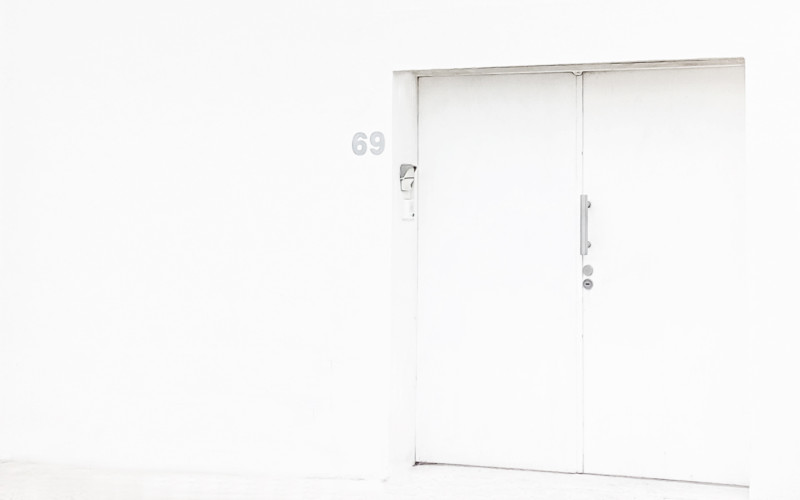
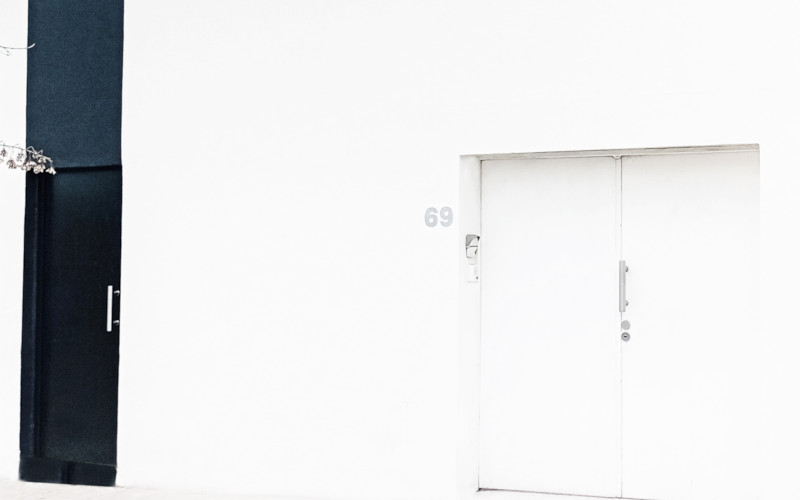
Radio, sede

diff --git a/docs/perm/radio/index.html b/docs/perm/radio/index.html
@@ -16,6 +16,21 @@
             <h1><img class="d-block fx-invert fx-ampliar" src="/rec/grafica/logo-posverso.svg" height="20px" title="POSVERSO"> Radio</h1>
         </header>
 
+        <section class="player">
+            <button id="btn-play" class="btn-play">Escuchar</button>
+            <div class="player-controls hidden" id="player-controls">
+                <button id="btn-toggle" class="btn-toggle" aria-label="Pausa"></button>
+                <div class="volume-wrap">
+                    <span class="vol-icon" id="vol-icon"></span>
+                    <input type="range" id="vol-slider" min="0" max="100" value="80" class="vol-slider">
+                </div>
+                <span class="time-display" id="time-display">00:00:00</span>
+            </div>
+            <audio id="radio" preload="none">
+                <source src="https://giss.tv:667/posversoradio.ogg" type="audio/ogg">
+            </audio>
+        </section>
+
         <section class="ficha" id="ficha">
             <div class="ficha-status">
                 <span class="dot" id="status-dot"></span>
@@ -44,21 +59,6 @@
                     <span class="disc-value" id="disc-url">&mdash;</span>
                 </div>
             </div>
-        </section>
-
-        <section class="player">
-            <button id="btn-play" class="btn-play">Escuchar</button>
-            <div class="player-controls hidden" id="player-controls">
-                <button id="btn-toggle" class="btn-toggle" aria-label="Pausa"></button>
-                <div class="volume-wrap">
-                    <span class="vol-icon" id="vol-icon"></span>
-                    <input type="range" id="vol-slider" min="0" max="100" value="80" class="vol-slider">
-                </div>
-                <span class="time-display" id="time-display">00:00:00</span>
-            </div>
-            <audio id="radio" preload="none">
-                <source src="https://giss.tv:667/posversoradio.ogg" type="audio/ogg">
-            </audio>
         </section>
     </main>
 

diff --git a/docs/perm/radio/lib/css/style.css b/docs/perm/radio/lib/css/style.css
@@ -140,8 +140,8 @@ body {
 
 /* Disco */
 .ficha-disc {
-    border-top: 1px solid var(--border);
     padding-top: 1.2rem;
+    border-top: none;
 }
 
 .disc-row {
@@ -186,7 +186,7 @@ body {
 /* === Player === */
 .player {
     border: 1px solid var(--border);
-    border-top: none;
+    border-bottom: none;
     padding: 1.4rem 2rem;
     display: flex;
     align-items: center;
